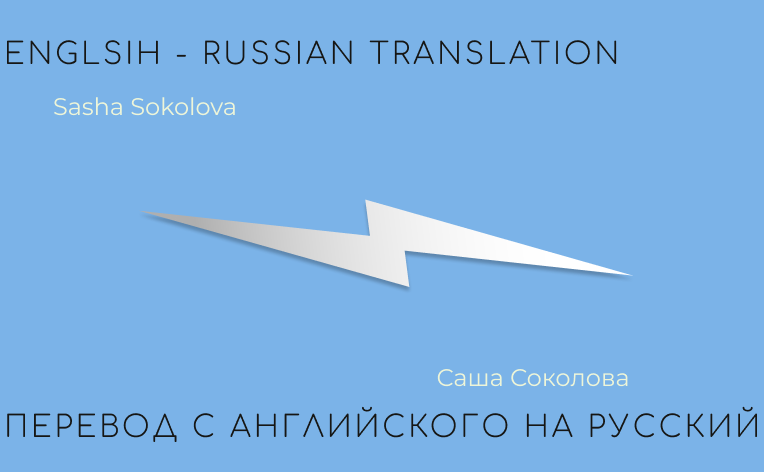
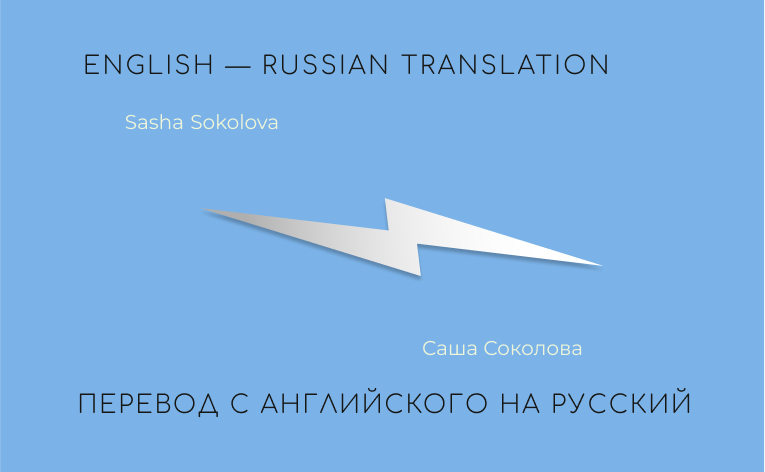
Thumbnail.png again

diff --git a/pages/_document.js b/pages/_document.js
@@ -78,7 +78,7 @@ export default class DefaultDocument extends Document {
           <meta property="og:type" content="website" />
           <meta property="og:title" content={pageTitle} />
           <meta property="og:description" content={pageDescription} />
-          <meta property="og:image" content={`${hostName}thumbnail.jpg`} />
+          <meta property="og:image" content={`${hostName}thumbnail.png`} />
           <meta name="twitter:card" content="summary_large_image" />
           <meta charSet="utf-8" />
           <meta name="robots" content="index, follow" />

diff --git a/containers/HomePage/index.js b/containers/HomePage/index.js
@@ -97,7 +97,7 @@ function HomePage() {
       </StyledButtonRow>
       <NameColumn>
         <NameHeadline>
-          <H1>ENGLISH - RUSSIAN TRANSLATION</H1>
+          <H1>ENGLISH — RUSSIAN TRANSLATION</H1>
           <S1>Sasha Sokolova</S1>
         </NameHeadline>
 
